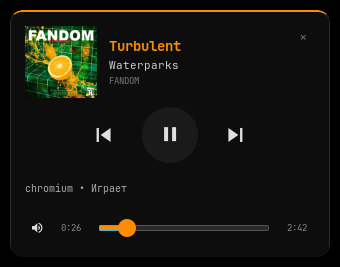
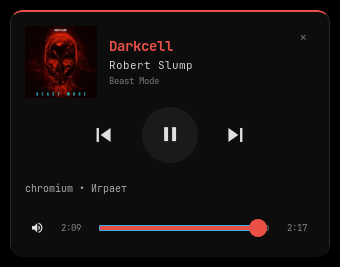
docs: document shuffle, loop, cover accent and fade

diff --git a/README.md b/README.md
@@ -17,6 +17,11 @@ English popup; the Russian popup is shown in the Russian section below.
 - Closes on outside click, `✕`, `Esc`, a second click on the module, or a niri
   workspace change.
 - Asynchronous cover loading with a placeholder; covers are cached for 14 days.
+- Shuffle and loop buttons when the player exposes those MPRIS properties;
+  the buttons are hidden for players that do not support them.
+- Accent colour sampled from the cover (`WAYBAR_PLAYER_ACCENT=cover|fixed`),
+  with the orange `#ff8c00` fallback.
+- 150 ms fade for cover and text on track changes.
 - English and Russian UI, plus a JSON-based way to add more languages.
 
 ## Requirements (Arch)
@@ -151,6 +156,7 @@ See [`examples/style.css`](examples/style.css).
 | `WAYBAR_PLAYER_TITLE_WIDTH` | `30` | Bar title width in characters. |
 | `WAYBAR_PLAYER_ART_DIRS` | empty | Extra `file://` cover directories, colon-separated. |
 | `WAYBAR_PLAYER_LANG` | unset | Force `en`, `ru`, or another installed locale. |
+| `WAYBAR_PLAYER_ACCENT` | `cover` | `cover` samples the cover colour; `fixed` keeps `#ff8c00`. |
 
 Language selection order: `WAYBAR_PLAYER_LANG`, `LC_ALL`, `LC_MESSAGES`,
 `LANG`. The first two letters are used (`ru_RU.UTF-8` → `ru`); unknown
@@ -181,8 +187,10 @@ To add a language:
 
 - Left click on the module: open/close the popup.
 - Middle click: previous track; right click: pause/play; wheel: volume.
-- In the popup: prev/play/next, volume icon opens the volume page, the bottom
-  slider seeks, `✕`/`Esc` closes.
+- In the popup: prev/play/next, shuffle and loop buttons when supported, volume
+  icon opens the volume page, the bottom slider seeks, `✕`/`Esc` closes.
+- Loop cycles through `None → Track → Playlist`; shuffle toggles on/off. Players
+  without these properties do not show the buttons.
 - The popup closes on outside click, a second module click, or a niri
   workspace switch.
 
@@ -247,7 +255,8 @@ LICENSE
 
 - В панели: вращающийся диск, бегущая строка, пауза/idle, тултип с треком,
   исполнителем, альбомом, плеером и громкостью.
-- В попапе: обложка, prev/play/next, громкость, перемотка; закрытие по клику
+- В попапе: обложка, prev/play/next, shuffle/loop (если плеер поддерживает),
+  громкость, перемотка; закрытие по клику
   вне, `✕`, `Esc`, повторному клику и смене воркспейса niri.
 - Интерфейс на английском и русском; язык задаётся `WAYBAR_PLAYER_LANG`,
   иначе берётся из `LC_ALL`/`LC_MESSAGES`/`LANG`; неизвестный язык → английский.
@@ -283,7 +292,10 @@ PREFIX="$HOME/.local" ./install.sh
 
 Переменные: `WAYBAR_PLAYER_RIGHT_MARGIN` (215), `WAYBAR_PLAYER_WIDTH` (320),
 `WAYBAR_PLAYER_TITLE_WIDTH` (30), `WAYBAR_PLAYER_ART_DIRS` (пусто),
-`WAYBAR_PLAYER_LANG` (не задан).
+`WAYBAR_PLAYER_LANG` (не задан), `WAYBAR_PLAYER_ACCENT` (`cover`).
+Шафл/повтор показываются только при поддержке MPRIS; повтор идёт по кругу
+`None → Track → Playlist`. Цвет заголовка, ползунков и верхней полосы берётся
+из обложки (`fixed` — оранжевый `#ff8c00`); смена трека — fade ~150 мс.
 
 Обложки: `https` и `file://` только внутри `/tmp`, `XDG_RUNTIME_DIR`,
 `XDG_CACHE_HOME`/`~/.cache` и `WAYBAR_PLAYER_ART_DIRS`; проверяются realpath,

diff --git a/docs/parity.md b/docs/parity.md
@@ -60,3 +60,17 @@
 
 - Play/pause **не закрывает** меню — ровно как в исходном `player-menu.sh`;
   отдельного изменения поведения здесь нет.
+
+
+## Дополнительно в 0.2.0
+
+- **Shuffle/loop.** Две кнопки рядом с prev/play/next читают
+  `playerctl shuffle` и `playerctl loop`. Если команда вернула ошибку или пусто,
+  кнопка скрыта (Chromium). Переключение: `shuffle Toggle`; повтор по кругу
+  `None → Track → Playlist`. Иконки Nerd Font, подсказки через i18n.
+- **Акцент из обложки.** Pixbuf сжимается до 1×1; цвет поднимается по светлоте
+  и насыщенности до читаемого порога и применяется к заголовку, ползункам и
+  верхней полосе. Без обложки — `#ff8c00`; `WAYBAR_PLAYER_ACCENT=fixed`
+  отключает выбор цвета из обложки.
+- **Fade.** При смене трека обложка/текст появляются за ~150 мс (10 шагов по
+  15 мс); лишних запросов к плееру нет.
